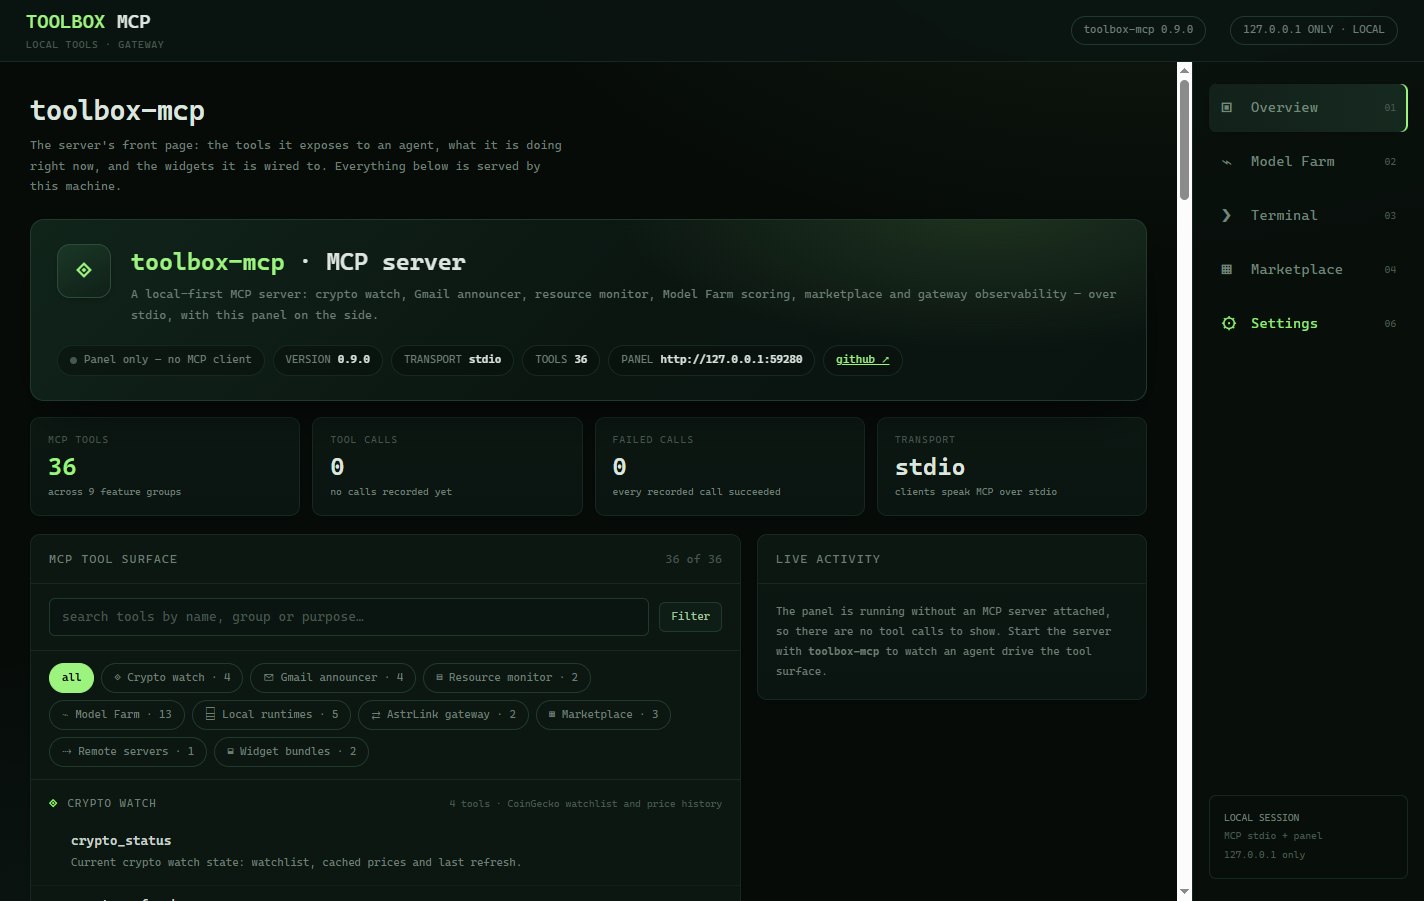
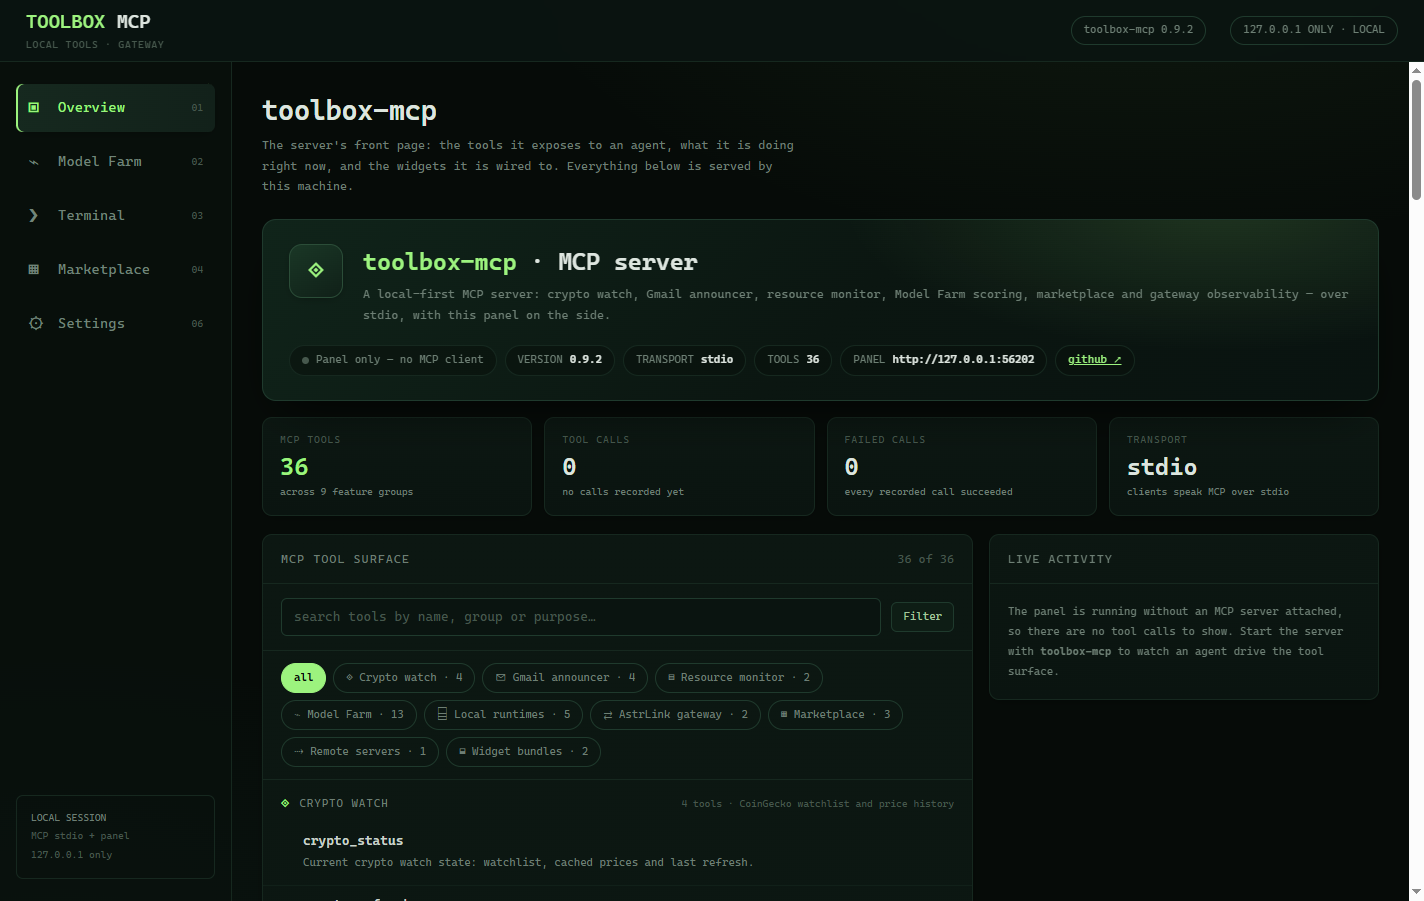
Ship Model Farm 0.9.2 with the navigation back on the left
The primary nav rail had drifted to the right of the stage, which put the
menu in the least reachable place. It now occupies the fixed first column
again, with the active item's accent on the rail's inner edge and the
narrow layout collapsing it in favour of a full-width stage.

Also pins the sibling widget core in CI for reproducible builds, adds the
secondary-runtime acceptance probe and a layout capture probe, and points
the readme and landing page at the 0.9.2 binaries.

diff --git a/docs/index.html b/docs/index.html
@@ -110,8 +110,8 @@
       <section class="download">
         <h2>Download the Model Farm app</h2>
         <div class="buttons">
-          <a class="btn primary" href="https://github.com/acsdd/toolbox-mcp/releases/download/v0.9.1/ModelFarm-Setup-0.9.1.exe">Model Farm 0.9.1 — Installer (125 MB)</a>
-          <a class="btn" href="https://github.com/acsdd/toolbox-mcp/releases/download/v0.9.1/ModelFarm-Portable-0.9.1.exe">Model Farm 0.9.1 — Portable (113 MB)</a>
+          <a class="btn primary" href="https://github.com/acsdd/toolbox-mcp/releases/download/v0.9.2/ModelFarm-Setup-0.9.2.exe">Model Farm 0.9.2 — Installer (125 MB)</a>
+          <a class="btn" href="https://github.com/acsdd/toolbox-mcp/releases/download/v0.9.2/ModelFarm-Portable-0.9.2.exe">Model Farm 0.9.2 — Portable (113 MB)</a>
         </div>
         <p class="note">Windows, no Node.js and no administrator rights. The binaries are not code-signed, so SmartScreen shows an "unverified publisher" warning on first start. Older builds: <a href="https://github.com/acsdd/toolbox-mcp/releases">all releases</a>.</p>
       </section>

diff --git a/docs/release-notes-0.9.2.md b/docs/release-notes-0.9.2.md
@@ -1,0 +1,37 @@
+# Model Farm 0.9.2
+
+A usability and stability release bringing layout ergonomics, terminal probe resilience, automated secondary runtime verification, and reproducible CI builds.
+
+## What's changed
+
+### Ergonomics: Panel navigation restored to the primary left rail
+
+- The main navigation rail (Overview, Model Farm, Terminal, Marketplace, Gateway, Settings) has been moved back to the fixed first column on the left of the stage (`232px minmax(0, 1fr)`).
+- Active navigation items display an accented indicator on their inner edge for instant visual feedback.
+- Narrow and mobile viewports automatically collapse the rail and expand the stage to full width.
+
+### Terminal UX & probe resilience
+
+- **Decoupled input region (Issue #3):** The terminal command entry field remains visible and anchored at the bottom of the viewport, while command output accumulates in an independently scrollable region. Output growth no longer pushes the prompt off-screen.
+- **Probe resilience:** The terminal connection probe now persists across the entire wait window, eliminating false-positive timeout errors on busy or cold runner environments.
+
+### Multi-runtime validation
+
+- Added an automated end-to-end acceptance suite (`scripts/verify-secondary-runtime.mjs`) verifying:
+  - Discovery across all 10 supported local runtimes (Ollama, LM Studio, llama.cpp, Jan, etc.).
+  - Dynamic switching of the active installation runtime (`runtimes_use`) with persistence in user settings.
+  - Runtime validation guards that reject non-existent runtimes.
+  - Safety guards that refuse non-Ollama model removals.
+  - Seamless restoration of the default Ollama runtime.
+
+### CI & Build Reproducibility
+
+- Pinned the sibling dependency `@toolbox/widgets` to a verified commit hash (`146b9ba5446575d36263c835b503608c218944d1`) in `.github/workflows/ci.yml`. This ensures deterministic builds and guards against unreleased upstream changes.
+
+## Verification
+
+- **Unit test suite:** 261/261 tests passing cleanly across 64 suites (`npm test`).
+- **Core widgets:** 176/176 tests passing cleanly in `@toolbox/widgets` v0.2.1.
+- **Packaged stdio MCP execution:** Verified via `verify-install.cjs` using `ELECTRON_RUN_AS_NODE=1` without external Node dependencies.
+- **End-to-end model lifecycle:** Verified via `verify-model-journey.mjs` against live Ollama runtime (search -> quant mapping -> pull -> progress -> inventory -> clean removal).
+- **Secondary runtime journey:** Verified via `verify-secondary-runtime.mjs`.

diff --git a/README.md b/README.md
@@ -16,8 +16,8 @@ no Node.js and no administrator rights.
 
 | Build | What it is | Size |
 | --- | --- | --- |
-| [`ModelFarm-Setup-0.9.1.exe`](https://github.com/acsdd/toolbox-mcp/releases/download/v0.9.1/ModelFarm-Setup-0.9.1.exe) | Assisted installer — no administrator rights, you pick the folder, optional Desktop and Start-menu shortcuts | 124.8 MB |
-| [`ModelFarm-Portable-0.9.1.exe`](https://github.com/acsdd/toolbox-mcp/releases/download/v0.9.1/ModelFarm-Portable-0.9.1.exe) | No installer and no registry writes; its data lives next to the executable | 113.1 MB |
+| [`ModelFarm-Setup-0.9.2.exe`](https://github.com/acsdd/toolbox-mcp/releases/download/v0.9.2/ModelFarm-Setup-0.9.2.exe) | Assisted installer — no administrator rights, you pick the folder, optional Desktop and Start-menu shortcuts | 124.8 MB |
+| [`ModelFarm-Portable-0.9.2.exe`](https://github.com/acsdd/toolbox-mcp/releases/download/v0.9.2/ModelFarm-Portable-0.9.2.exe) | No installer and no registry writes; its data lives next to the executable | 113.1 MB |
 
 Install, update, roll back and uninstall are described in
 [docs/install.md](docs/install.md). Older builds are on the
@@ -241,7 +241,7 @@ present with its dependencies installed.
 
 ```bash
 npm install
-npm run portable      # → dist/ModelFarm-Portable-0.9.1.exe + dist/ModelFarm-Setup-0.9.1.exe
+npm run portable      # → dist/ModelFarm-Portable-0.9.2.exe + dist/ModelFarm-Setup-0.9.2.exe
 ```
 
 Smoke-test the packaged app before shipping it — point the script at the
@@ -272,11 +272,11 @@ the widget core repo, so **the widget core has to be published first**:
 
 ```bash
 npm run release:notes -- --to HEAD --out release-notes.md
-git tag v0.9.1
+git tag v0.9.2
 git push origin main --tags
-gh release create v0.9.1 \
-  dist/ModelFarm-Portable-0.9.1.exe dist/ModelFarm-Setup-0.9.1.exe \
-  --title "Model Farm 0.9.1" --notes-file docs/release-notes-0.9.1.md
+gh release create v0.9.2 \
+  dist/ModelFarm-Portable-0.9.2.exe dist/ModelFarm-Setup-0.9.2.exe \
+  --title "Model Farm 0.9.2" --notes-file docs/release-notes-0.9.2.md
 ```
 
 The download links in this readme and in `docs/index.html` point at the current
